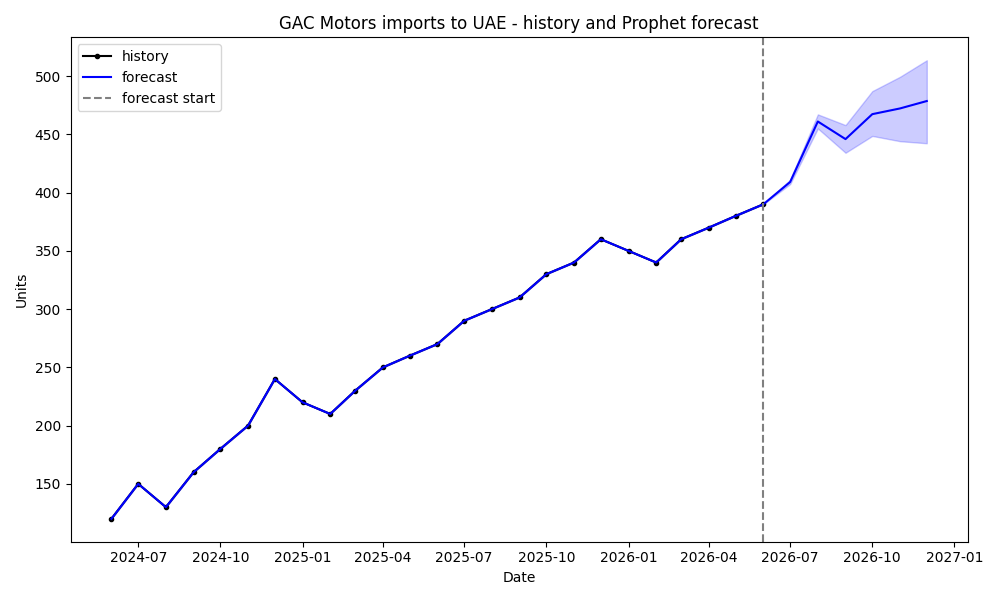
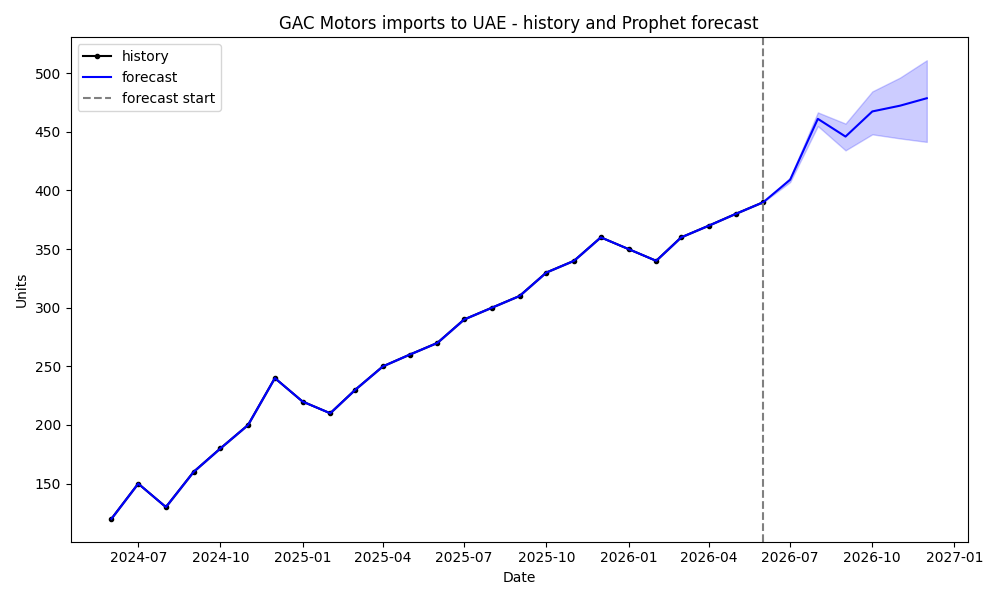
Commit: stacking, feature engineering, expanded CV

diff --git a/analysis/analyze_gac_uae.py b/analysis/analyze_gac_uae.py
@@ -719,147 +719,144 @@ def main():
                 out_csv = os.path.join(args.outdir, 'forecast_ensemble.csv')
                 out_df.to_csv(out_csv, index=False)
                 print('Ensemble forecast saved to', out_csv)
-                # Attempt stacking (OOF stacking with Ridge meta-learner) if enough history
+                # Attempt stacking (OOF stacking with Ridge meta-learner)
                 try:
                     from sklearn.linear_model import RidgeCV
-                    if len(monthly) < 36:
-                        print('Not enough history for robust stacking (need >=36 months). Skipping stacking.')
+
+                    # adapt folds and horizon to available history
+                    horizon_oof = min(6, max(1, len(monthly) // 8))
+                    n_splits = min(5, max(2, len(monthly) // (horizon_oof * 2)))
+                    print(f'Running OOF stacking with Ridge meta-learner (n_splits={n_splits}, horizon={horizon_oof})...')
+
+                    oof_X = []
+                    oof_y = []
+                    for split in range(n_splits):
+                        split_end = len(monthly) - (n_splits - split) * horizon_oof
+                        if split_end <= 6:
+                            continue
+                        train_df = monthly.iloc[:split_end].copy()
+                        val_df = monthly.iloc[split_end:split_end + horizon_oof].copy()
+                        preds_split = []
+
+                        # Prophet
+                        try:
+                            m = Prophet(changepoint_prior_scale=best_prop_big.get('changepoint_prior_scale', 0.05), seasonality_prior_scale=best_prop_big.get('seasonality_prior_scale', 5.0), seasonality_mode='additive', yearly_seasonality=True, weekly_seasonality=False, daily_seasonality=False)
+                            m.fit(train_df)
+                            future = m.make_future_dataframe(periods=horizon_oof, freq='MS')
+                            fc = m.predict(future)
+                            p_prop = fc.set_index('ds')['yhat'].reindex(val_df['ds']).values
+                        except Exception:
+                            p_prop = np.full(len(val_df), np.nan)
+                        preds_split.append(p_prop)
+
+                        # lag-based GBM/XGB
+                        try:
+                            lags = 6
+                            df_lag = prepare_lags(monthly, lags=lags)
+                            train_lag = df_lag.iloc[:split_end]
+                            val_lag = df_lag.iloc[split_end:split_end + horizon_oof]
+                            X_tr = train_lag[[f'lag_{i}' for i in range(1, lags+1)]].values
+                            y_tr = train_lag['y'].values
+                            X_val = val_lag[[f'lag_{i}' for i in range(1, lags+1)]].values
+
+                            g = GradientBoostingRegressor(n_estimators=best_gbm_big.get('n_estimators',100), max_depth=best_gbm_big.get('max_depth',2), learning_rate=best_gbm_big.get('learning_rate',0.05))
+                            g.fit(X_tr, y_tr)
+                            p_g = g.predict(X_val)
+                        except Exception:
+                            p_g = np.full(len(val_df), np.nan)
+                        preds_split.append(p_g)
+
+                        try:
+                            x = XGBRegressor(n_estimators=best_xgb_big.get('n_estimators',100), learning_rate=best_xgb_big.get('learning_rate',0.1), verbosity=0)
+                            x.fit(X_tr, y_tr)
+                            p_x = x.predict(X_val)
+                        except Exception:
+                            p_x = np.full(len(val_df), np.nan)
+                        preds_split.append(p_x)
+
+                        # SARIMA
+                        try:
+                            monthly_idx = monthly.set_index('ds').asfreq('MS')
+                            train_series = monthly_idx.iloc[:split_end]['y']
+                            sar = SARIMAX(train_series, order=best_sarima_big.get('order',(1,1,1)), seasonal_order=best_sarima_big.get('seasonal_order',(0,1,1,12)), enforce_stationarity=False, enforce_invertibility=False)
+                            res = sar.fit(disp=False)
+                            p_s = res.get_forecast(steps=horizon_oof).predicted_mean.values
+                        except Exception:
+                            p_s = np.full(len(val_df), np.nan)
+                        preds_split.append(p_s)
+
+                        stacked = np.vstack(preds_split).T
+                        oof_X.append(stacked)
+                        oof_y.append(val_df['y'].values.reshape(-1,1))
+
+                    if len(oof_X) == 0:
+                        print('OOF stacking had no valid folds; skipping.')
                     else:
-                        print('Running OOF stacking with Ridge meta-learner (n_splits=5, horizon=6)...')
-                        n_splits = 5
-                        horizon_oof = 6
-                        oof_X = []
-                        oof_y = []
-                        for split in range(n_splits):
-                            split_end = len(monthly) - (n_splits - split) * horizon_oof
-                            if split_end <= 12:
-                                continue
-                            train_df = monthly.iloc[:split_end].copy()
-                            val_df = monthly.iloc[split_end:split_end + horizon_oof].copy()
-                            preds_split = []
+                        X_meta = np.vstack(oof_X)
+                        y_meta = np.vstack(oof_y).ravel()
+                        col_mask = ~np.all(np.isnan(X_meta), axis=0)
+                        X_meta = X_meta[:, col_mask]
+                        col_mean = np.nanmean(X_meta, axis=0)
+                        inds = np.where(np.isnan(X_meta))
+                        X_meta[inds] = np.take(col_mean, inds[1])
 
-                            # Prophet
-                            try:
-                                m = Prophet(changepoint_prior_scale=best_prop_big.get('changepoint_prior_scale', 0.05), seasonality_prior_scale=best_prop_big.get('seasonality_prior_scale', 5.0), seasonality_mode='additive', yearly_seasonality=True, weekly_seasonality=False, daily_seasonality=False)
-                                m.fit(train_df)
-                                future = m.make_future_dataframe(periods=horizon_oof, freq='MS')
-                                fc = m.predict(future)
-                                p_prop = fc.set_index('ds')['yhat'].reindex(val_df['ds']).values
-                            except Exception:
-                                p_prop = np.full(len(val_df), np.nan)
-                            preds_split.append(p_prop)
+                        meta = RidgeCV(alphas=[0.1, 1.0, 10.0])
+                        meta.fit(X_meta, y_meta)
+                        print('Stacking meta coefficients:', meta.coef_)
 
-                            # lag-based GBM/XGB
-                            try:
-                                lags = 6
-                                df_lag = prepare_lags(monthly, lags=lags)
-                                train_lag = df_lag.iloc[:split_end]
-                                val_lag = df_lag.iloc[split_end:split_end + horizon_oof]
-                                X_tr = train_lag[[f'lag_{i}' for i in range(1, lags+1)]].values
-                                y_tr = train_lag['y'].values
-                                X_val = val_lag[[f'lag_{i}' for i in range(1, lags+1)]].values
+                        # prepare holdout stacked inputs
+                        hold_preds = []
+                        try:
+                            m = Prophet(changepoint_prior_scale=best_prop_big.get('changepoint_prior_scale', 0.05), seasonality_prior_scale=best_prop_big.get('seasonality_prior_scale', 5.0), seasonality_mode='additive', yearly_seasonality=True, weekly_seasonality=False, daily_seasonality=False)
+                            m.fit(monthly.iloc[:-horizon])
+                            future = m.make_future_dataframe(periods=horizon, freq='MS')
+                            fc = m.predict(future)
+                            p_prop_full = fc.set_index('ds')['yhat'].reindex(holdout_df['ds']).values
+                        except Exception:
+                            p_prop_full = np.full(horizon, np.nan)
+                        hold_preds.append(p_prop_full)
 
-                                g = GradientBoostingRegressor(n_estimators=best_gbm_big.get('n_estimators',100), max_depth=best_gbm_big.get('max_depth',2), learning_rate=best_gbm_big.get('learning_rate',0.05))
-                                g.fit(X_tr, y_tr)
-                                p_g = g.predict(X_val)
-                            except Exception:
-                                p_g = np.full(len(val_df), np.nan)
-                            preds_split.append(p_g)
+                        try:
+                            lags = 6
+                            df_lag = prepare_lags(monthly, lags=lags)
+                            train_lag = df_lag.iloc[:len(df_lag)-horizon]
+                            hold_lag = df_lag.iloc[len(df_lag)-horizon:]
+                            X_trf = train_lag[[f'lag_{i}' for i in range(1, lags+1)]].values
+                            y_trf = train_lag['y'].values
+                            g = GradientBoostingRegressor(n_estimators=best_gbm_big.get('n_estimators',100), max_depth=best_gbm_big.get('max_depth',2), learning_rate=best_gbm_big.get('learning_rate',0.05))
+                            g.fit(X_trf, y_trf)
+                            p_g_full = g.predict(hold_lag[[f'lag_{i}' for i in range(1, lags+1)]].values)
+                        except Exception:
+                            p_g_full = np.full(horizon, np.nan)
+                        hold_preds.append(p_g_full)
 
-                            try:
-                                x = XGBRegressor(n_estimators=best_xgb_big.get('n_estimators',100), learning_rate=best_xgb_big.get('learning_rate',0.1), verbosity=0)
-                                x.fit(X_tr, y_tr)
-                                p_x = x.predict(X_val)
-                            except Exception:
-                                p_x = np.full(len(val_df), np.nan)
-                            preds_split.append(p_x)
+                        try:
+                            x = XGBRegressor(n_estimators=best_xgb_big.get('n_estimators',100), learning_rate=best_xgb_big.get('learning_rate',0.1), verbosity=0)
+                            x.fit(X_trf, y_trf)
+                            p_x_full = x.predict(hold_lag[[f'lag_{i}' for i in range(1, lags+1)]].values)
+                        except Exception:
+                            p_x_full = np.full(horizon, np.nan)
+                        hold_preds.append(p_x_full)
 
-                            # SARIMA
-                            try:
-                                monthly_idx = monthly.set_index('ds').asfreq('MS')
-                                train_series = monthly_idx.iloc[:split_end]['y']
-                                sar = SARIMAX(train_series, order=best_sarima_big.get('order',(1,1,1)), seasonal_order=best_sarima_big.get('seasonal_order',(0,1,1,12)), enforce_stationarity=False, enforce_invertibility=False)
-                                res = sar.fit(disp=False)
-                                p_s = res.get_forecast(steps=horizon_oof).predicted_mean.values
-                            except Exception:
-                                p_s = np.full(len(val_df), np.nan)
-                            preds_split.append(p_s)
+                        try:
+                            sar = SARIMAX(monthly.set_index('ds').asfreq('MS')[:-horizon]['y'], order=best_sarima_big.get('order',(1,1,1)), seasonal_order=best_sarima_big.get('seasonal_order',(0,1,1,12)), enforce_stationarity=False, enforce_invertibility=False)
+                            res = sar.fit(disp=False)
+                            p_s_full = res.get_forecast(steps=horizon).predicted_mean.values
+                        except Exception:
+                            p_s_full = np.full(horizon, np.nan)
+                        hold_preds.append(p_s_full)
 
-                            stacked = np.vstack(preds_split).T
-                            oof_X.append(stacked)
-                            oof_y.append(val_df['y'].values.reshape(-1,1))
-
-                        if len(oof_X) == 0:
-                            print('OOF stacking had no valid folds; skipping.')
-                        else:
-                            X_meta = np.vstack(oof_X)
-                            y_meta = np.vstack(oof_y).ravel()
-                            col_mask = ~np.all(np.isnan(X_meta), axis=0)
-                            X_meta = X_meta[:, col_mask]
-                            col_mean = np.nanmean(X_meta, axis=0)
-                            inds = np.where(np.isnan(X_meta))
-                            X_meta[inds] = np.take(col_mean, inds[1])
-
-                            meta = RidgeCV(alphas=[0.1, 1.0, 10.0])
-                            meta.fit(X_meta, y_meta)
-                            print('Stacking meta coefficients:', meta.coef_)
-
-                            # prepare holdout stacked inputs
-                            # retrain base models on train_df = monthly[:-horizon] and predict holdout
-                            hold_preds = []
-                            # prophet full
-                            try:
-                                m = Prophet(changepoint_prior_scale=best_prop_big.get('changepoint_prior_scale', 0.05), seasonality_prior_scale=best_prop_big.get('seasonality_prior_scale', 5.0), seasonality_mode='additive', yearly_seasonality=True, weekly_seasonality=False, daily_seasonality=False)
-                                m.fit(monthly.iloc[:-horizon])
-                                future = m.make_future_dataframe(periods=horizon, freq='MS')
-                                fc = m.predict(future)
-                                p_prop_full = fc.set_index('ds')['yhat'].reindex(holdout_df['ds']).values
-                            except Exception:
-                                p_prop_full = np.full(horizon, np.nan)
-                            hold_preds.append(p_prop_full)
-
-                            # gbm/xgb full
-                            try:
-                                lags = 6
-                                df_lag = prepare_lags(monthly, lags=lags)
-                                train_lag = df_lag.iloc[:len(df_lag)-horizon]
-                                hold_lag = df_lag.iloc[len(df_lag)-horizon:]
-                                X_trf = train_lag[[f'lag_{i}' for i in range(1, lags+1)]].values
-                                y_trf = train_lag['y'].values
-                                g = GradientBoostingRegressor(n_estimators=best_gbm_big.get('n_estimators',100), max_depth=best_gbm_big.get('max_depth',2), learning_rate=best_gbm_big.get('learning_rate',0.05))
-                                g.fit(X_trf, y_trf)
-                                p_g_full = g.predict(hold_lag[[f'lag_{i}' for i in range(1, lags+1)]].values)
-                            except Exception:
-                                p_g_full = np.full(horizon, np.nan)
-                            hold_preds.append(p_g_full)
-
-                            try:
-                                x = XGBRegressor(n_estimators=best_xgb_big.get('n_estimators',100), learning_rate=best_xgb_big.get('learning_rate',0.1), verbosity=0)
-                                x.fit(X_trf, y_trf)
-                                p_x_full = x.predict(hold_lag[[f'lag_{i}' for i in range(1, lags+1)]].values)
-                            except Exception:
-                                p_x_full = np.full(horizon, np.nan)
-                            hold_preds.append(p_x_full)
-
-                            try:
-                                sar = SARIMAX(monthly.set_index('ds').asfreq('MS')[:-horizon]['y'], order=best_sarima_big.get('order',(1,1,1)), seasonal_order=best_sarima_big.get('seasonal_order',(0,1,1,12)), enforce_stationarity=False, enforce_invertibility=False)
-                                res = sar.fit(disp=False)
-                                p_s_full = res.get_forecast(steps=horizon).predicted_mean.values
-                            except Exception:
-                                p_s_full = np.full(horizon, np.nan)
-                            hold_preds.append(p_s_full)
-
-                            stacked_hold = np.vstack(hold_preds).T
-                            stacked_hold = stacked_hold[:, col_mask]
-                            inds = np.where(np.isnan(stacked_hold))
-                            stacked_hold[inds] = np.take(col_mean, inds[1])
-                            ens_meta = meta.predict(stacked_hold)
-                            ens_meta_rmse = float(np.sqrt(np.mean((holdout_df['y'].values - ens_meta) ** 2)))
-                            print('Stacking ensemble RMSE on holdout:', ens_meta_rmse)
-                            out_df2 = pd.DataFrame({'ds': future_index, 'yhat_stacked': ens_meta})
-                            out_csv2 = os.path.join(args.outdir, 'forecast_stacked.csv')
-                            out_df2.to_csv(out_csv2, index=False)
-                            print('Stacked forecast saved to', out_csv2)
+                        stacked_hold = np.vstack(hold_preds).T
+                        stacked_hold = stacked_hold[:, col_mask]
+                        inds = np.where(np.isnan(stacked_hold))
+                        stacked_hold[inds] = np.take(col_mean, inds[1])
+                        ens_meta = meta.predict(stacked_hold)
+                        ens_meta_rmse = float(np.sqrt(np.mean((holdout_df['y'].values - ens_meta) ** 2)))
+                        print('Stacking ensemble RMSE on holdout:', ens_meta_rmse)
+                        out_df2 = pd.DataFrame({'ds': future_index, 'yhat_stacked': ens_meta})
+                        out_csv2 = os.path.join(args.outdir, 'forecast_stacked.csv')
+                        out_df2.to_csv(out_csv2, index=False)
+                        print('Stacked forecast saved to', out_csv2)
                 except Exception as e:
                     print('Stacking failed:', e)
 